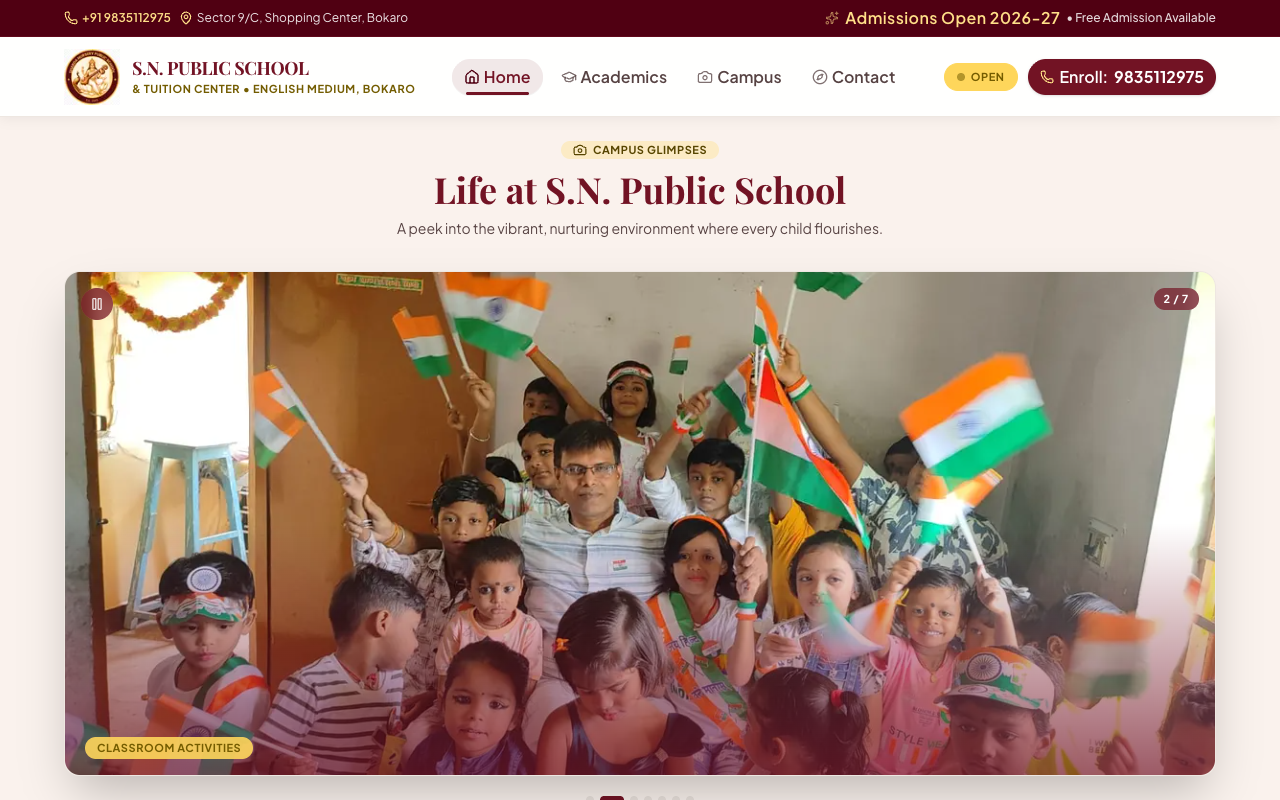
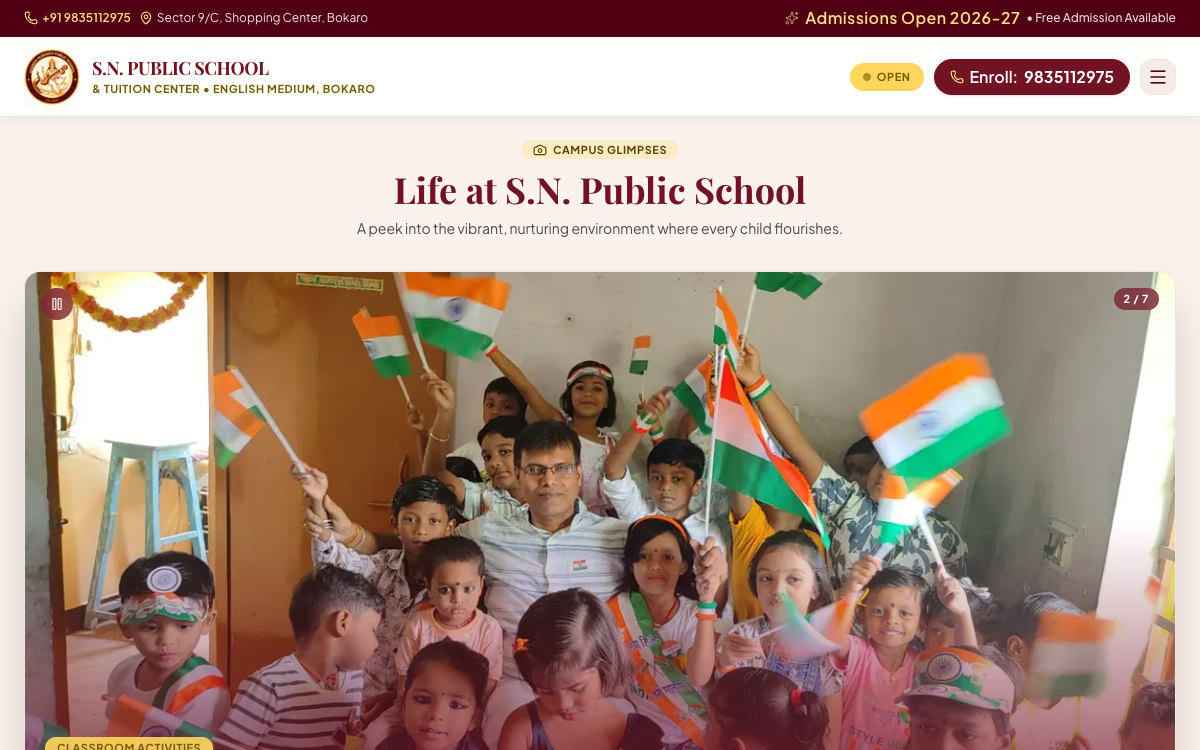
style: convert bento grid and work cards into aesthetic floating browser & mobile device mockups

diff --git a/src/data/site.ts b/src/data/site.ts
@@ -210,7 +210,7 @@ export const siteData = {
       ],
       tech: ['Astro'],
       liveUrl: 'https://invifestx16.vercel.app',
-      image: '/projects/royal-wedding.png',
+      image: '/projects/royal-wedding-mobile.png',
     },
     {
       id: 'civic-voice',
